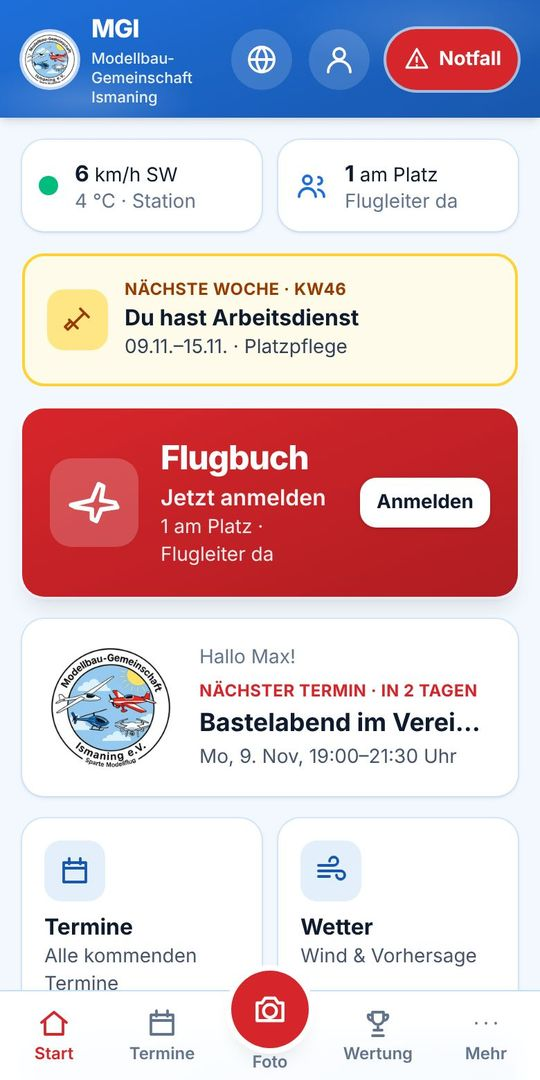
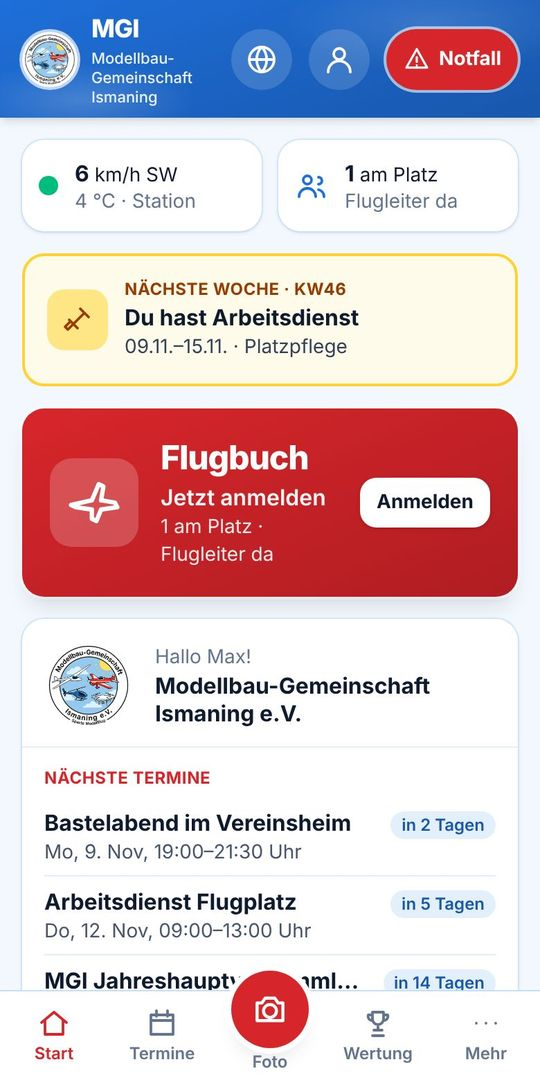
Regel-Assistent auf der Startseite; Anleitungen aktualisiert (Mitglieder, Admins, neue Screenshots)
Claude-Session: https://claude.ai/code/session_011NhaDLGC1bo9HjrAGHmJc1

Changed region(s): [[0.0593, 0.5806, 0.9185, 0.9167]]

diff --git a/app/src/seiten/Start.tsx b/app/src/seiten/Start.tsx
@@ -184,6 +184,7 @@ export default function Start() {
         <Kachel zu="/brett" icon="pinnwand" titel="Schwarzes Brett">Biete · Suche · Info</Kachel>
         <Kachel zu="/arbeitsdienst" icon="schaufel" titel="Arbeitsdienst">Termine & Eintragen</Kachel>
         <Kachel zu="/technik" icon="zahnrad" titel="Technik am Platz">Wetterstation, Walze, Strom …</Kachel>
+        <Kachel zu="/regeln" icon="sprechblase" titel="Regel-Assistent (KI)" breit>Fragen zu Satzung & Flugbetriebsordnung</Kachel>
         <Kachel zu="/notfall" icon="notfall" titel="Platzordnung & Notfall" farbe="rot" breit>Notruf 112, Anfahrt, Regeln</Kachel>
       </div>
     </div>

diff --git a/docs/Anleitung-Admins.md b/docs/Anleitung-Admins.md
@@ -62,15 +62,30 @@ Die Formel-Engine führt keinen fremden Code aus. Erlaubt sind nur Zahlen, Varia
 ## Flugbuch
 - Jede An- und Abmeldung landet mit Uhrzeit in der Google-Tabelle (Blätter **Flugbuch** und **Flugleiter**).
 - **Verwaltung → Flugbuch-Übersicht:** Einträge nach Zeitraum, nach Tagen gruppiert, CSV-Export und Link zur Tabelle.
-- Admins können vergessene Einträge anderer unter „Flugbuch heute“ abmelden. Sonst beendet die App offene Einträge automatisch nach der eingestellten Zeit (Standard 6 Std., spätestens am Tagesende) – markiert mit „automatisch“.
+- Admins können vergessene Einträge anderer unter „Flugbuch heute“ abmelden. Sonst beendet die App offene Einträge automatisch **um 23:59 Uhr** am Tag der Anmeldung – markiert mit „automatisch“. Optional lässt sich unter Einstellungen zusätzlich eine Stundengrenze setzen (0 = keine).
+- Der **CSV-Export** enthält zwei Blöcke: Piloten und Flugleiter (mit Fangnetz, Rasen, Wetter, Wind).
+- Das elektronische Flugbuch ist in der **Flugbetriebsordnung (Fassung 07.11.2026), Abschnitt 6.2** geregelt.
 
 ## Einstellungen
 Unter **Verwaltung → Einstellungen** pflegst du:
 - Platzordnung und Notfall-Infos (Markdown, mit Vorschau)
 - Notfall-Kontakte
 - Grenzwerte der Wind-Ampel
-- Zeit bis zum automatischen Auschecken
+- Stundengrenze für das automatische Abmelden im Flugbuch (0 = erst um 23:59 Uhr)
 - Datenschutzhinweis beim Foto-Upload
+
+## Push-Nachrichten
+- Jedes Mitglied schaltet Push unter **Konto → Push-Nachrichten** selbst ein. Neben der Überschrift steht deutlich **an** oder **aus**; die Schalter für die Anlässe erscheinen erst, wenn Push an ist.
+- **Test-Nachricht senden** schickt sofort eine Nachricht an die eigenen Geräte – gut zum Prüfen, gerade auf dem iPhone.
+- Als Admin bekommst du bei jeder **Zugangsanfrage** eine Push-Nachricht (Schalter „Zugangsanfragen“, nur für Admins sichtbar).
+- iPhone: Push nur in der App vom Home-Bildschirm (iOS 16.4+). Kurzanleitung für Mitglieder: [MGI-App_iPhone.pdf](MGI-App_iPhone.pdf).
+
+## Regel-Assistent (KI)
+- Mitglieder stellen unter **Regel-Assistent (KI)** (Startseite und *Mehr*) Fragen zur **Satzung** und **Flugbetriebsordnung**. Die Antworten kommen von **Google Gemini** und dürfen nur aus diesen Dokumenten stammen, mit Fundstelle; sonst Verweis an den Vorstand.
+- Grenze: 30 Fragen pro Mitglied und Tag. Namen werden nicht an Google übermittelt.
+- Einrichtung (Script Properties): `GEMINI_API_KEY` = Schlüssel aus [aistudio.google.com/apikey](https://aistudio.google.com/apikey). Optional `GEMINI_MODELL` (Standard `gemini-3.1-flash-lite`).
+- **Neue Fassung eines Dokuments:** PDF in den Drive legen und in den Script Properties `REGELN_DATEIEN` setzen, Format `Titel=Drive-Datei-ID,Titel=Drive-Datei-ID`, z. B. `Vereinssatzung (Stand 23.09.2024)=1mnr…,Flugbetriebsordnung (Stand 07.11.2026)=1NDT…`. Ohne diese Property nimmt das Backend Satzung 23.09.2024 und Flugbetriebsordnung 07.11.2026.
+- Im kostenlosen Gemini-Tarif darf Google Eingaben zur Verbesserung nutzen; mit hinterlegter Abrechnung nicht.
 
 ## Mitteilung senden
 Unter **Verwaltung → Mitteilung senden** geht eine Push-Nachricht an alle, die „Wichtige Mitteilungen“ eingeschaltet haben, z. B. „Platz heute gesperrt“.
@@ -92,4 +107,9 @@ Was Piloten unter „Besondere Vorkommnisse“ eintragen, steht im Blatt „Flug
 - Abschnitt antippen → **Bearbeiten**: Titel, Symbol, Text (einfaches Markdown), Fotos (max. 6) und optional das Blockschaltbild der Wetterstation.
 - **Nur für angemeldete Mitglieder** einschalten bei allem, was nicht öffentlich sein soll (z. B. Zahlenkombination Dixi-Schloss). Solche Abschnitte schickt das Backend ohne Anmeldung gar nicht erst aus.
 - Mit ↑ ↓ die Reihenfolge ändern, unten **Neuer Abschnitt** für weitere Geräte.
+- Ladesteckdosen: **jeder Tisch** hat eine eigene Sicherung 15 A (Blockschaltbild und Texte entsprechend).
 - Die Texte stehen im Blatt „Technik“ der Tabelle MGI-Flugbuch, Fotos im Drive-Ordner „Technik (App)“ (wird beim ersten Foto automatisch neben der Tabelle angelegt).
+
+## Updates der App
+- Neue Versionen gehen automatisch live, sobald sie auf GitHub sind. Die App sucht beim Öffnen und jedes Mal beim Zurückkehren in die App nach einer neuen Version und lädt sich dann selbst neu.
+- Welche Version läuft, steht unten auf der Seite **Mehr** (z. B. „Version 1.1.0“). Hängt ein Gerät noch auf einer alten Version: App ganz schließen (iPhone: von unten wischen und die App nach oben wegschieben) und neu öffnen.
